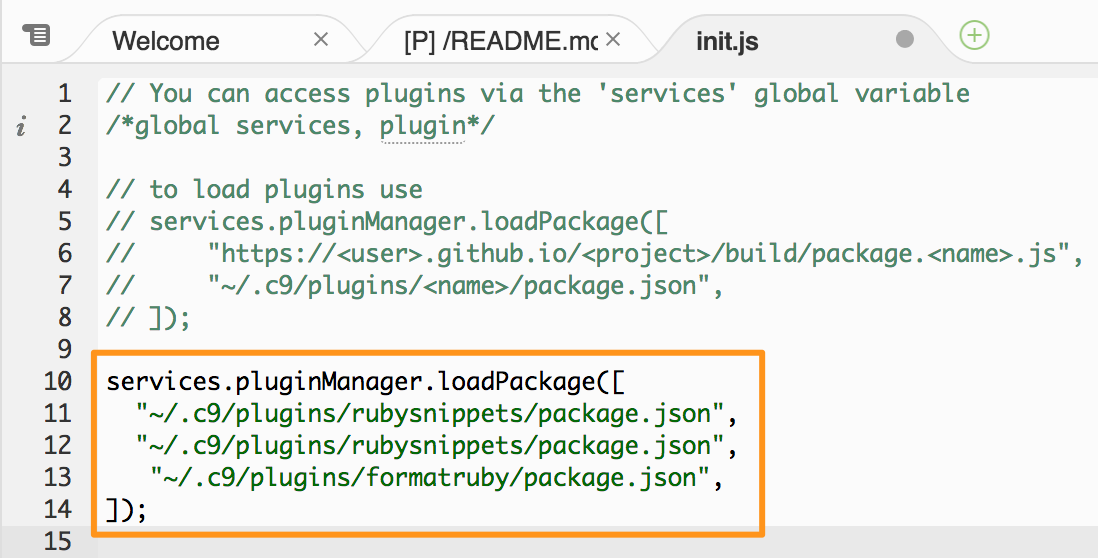
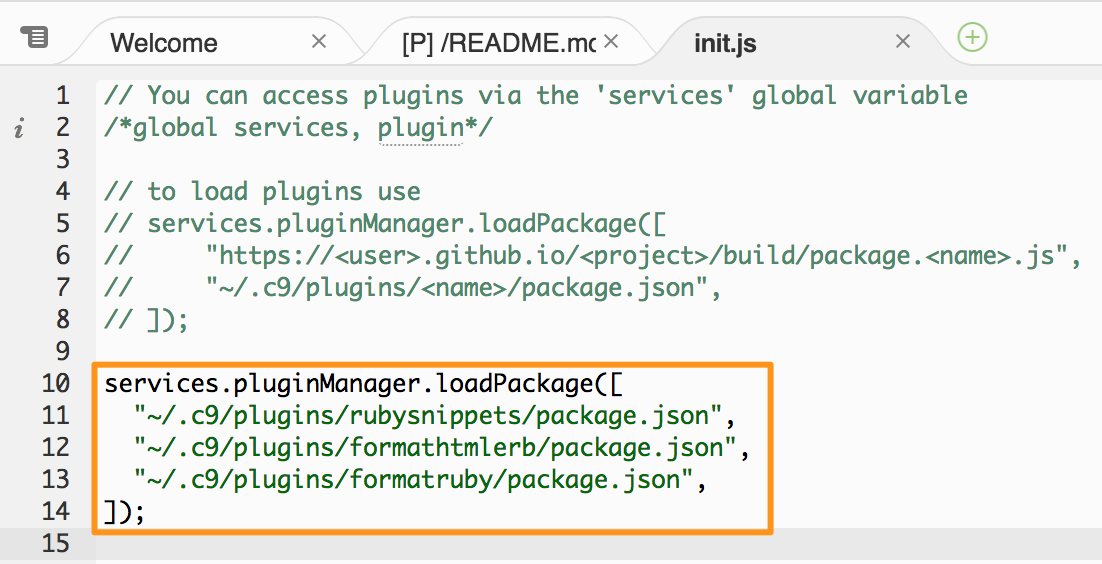
Updates setting-up-your-cloud9-workspace.md
Auto commit by GitBook Editor

diff --git a/setting-up-your-cloud9-workspace.md b/setting-up-your-cloud9-workspace.md
@@ -186,9 +186,9 @@ You should see a file open up in the editor:
 You can edit this file to include our plugins in your workspace. Copy the following code into the bottom of the `init.js` file: 
 
 ```
-services.pluginManager.loadPackage([
+![services.pluginManager.loadPackage([
 "~/.c9/plugins/rubysnippets/package.json",
-"~/.c9/plugins/rubysnippets/package.json",
+"~/.c9/plugins/formathtmlerb/package.json",
 "~/.c9/plugins/formatruby/package.json",
 ]);
 ```
